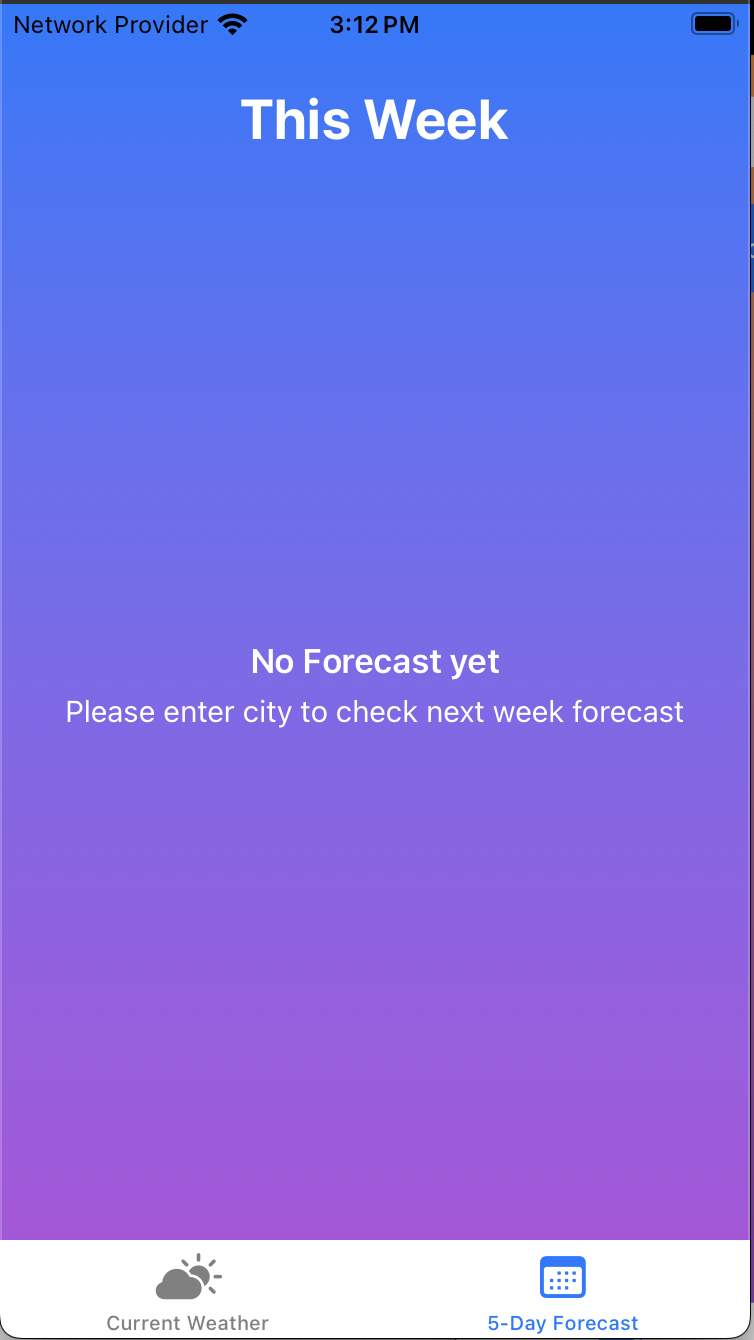
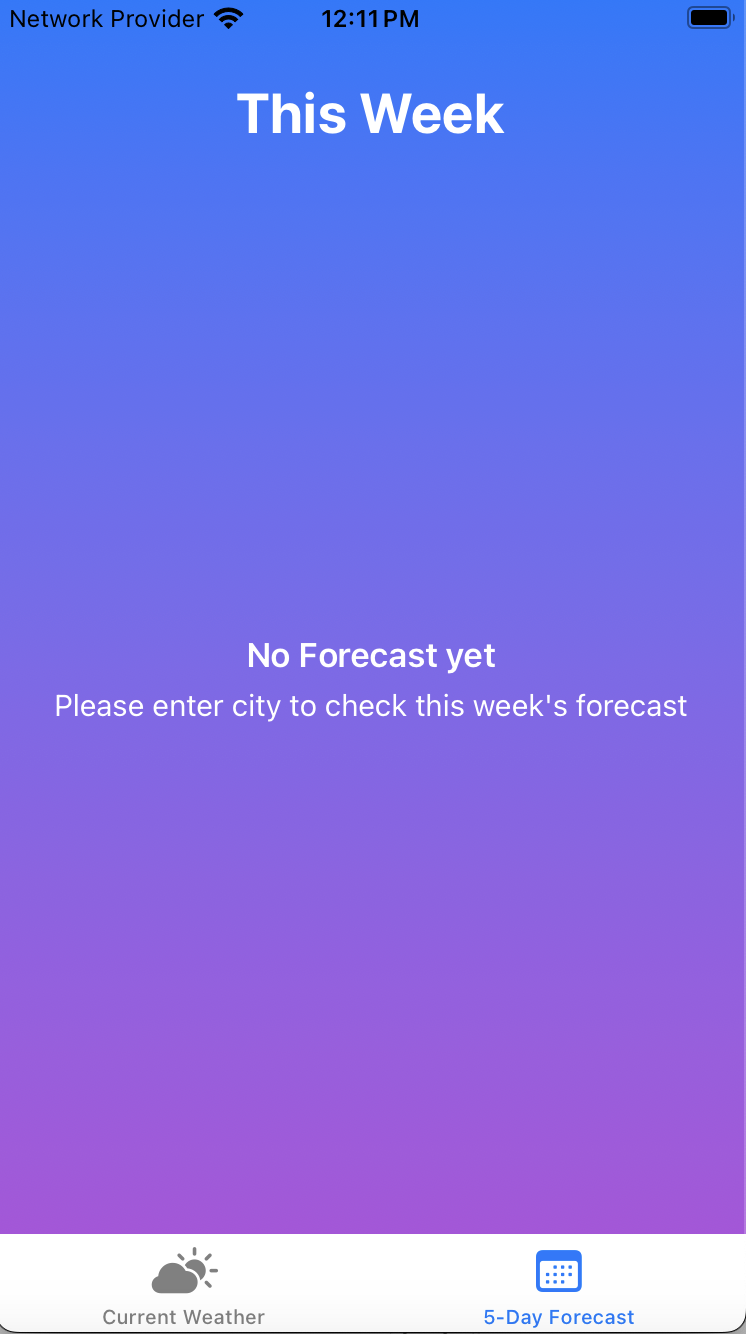
Updated Read me file and added constants file

diff --git a/WeatherForecastingApp/WeatherForecastingApp/Views/WeatherView.swift b/WeatherForecastingApp/WeatherForecastingApp/Views/WeatherView.swift
@@ -13,7 +13,7 @@ struct WeatherView: View {
             
             VStack(spacing: 20) {
                 VStack {
-                    TextField("Enter city name", text: $city)
+                    TextField(StringConstants.enterCityName, text: $city)
                         .padding(.all, 7) // Horizontal padding inside the TextField
                         .frame(height: 45) // Set the height of the TextField
                         .background(Color(.systemGray6)) // Background color
@@ -30,7 +30,7 @@ struct WeatherView: View {
                             weatherViewModel.fetchWeather(for: city)
                         }
                     }) {
-                        Text("Check Weather")
+                        Text(StringConstants.checkWeather)
                             .bold()
                             .frame(maxWidth: .infinity)
                             .padding()
@@ -47,7 +47,7 @@ struct WeatherView: View {
                     WeatherDisplay(weather: weather)
                 } else if weatherViewModel.errorMessage != nil{
                     // Clear previous weather data and show error
-                    Text("Something went wrong, Please try again")
+                    Text(AlertMessages.defaultAlert.description)
                         .foregroundColor(.red)
                         .padding()
                         .onAppear {
@@ -61,15 +61,15 @@ struct WeatherView: View {
             }.alert(isPresented: $showAlert) {
                 if let errorMessage = weatherViewModel.errorMessage {
                     return Alert(
-                        title: Text("Error"),
+                        title: Text(StringConstants.error),
                         message: Text(errorMessage),
-                        dismissButton: .default(Text("OK"))
+                        dismissButton: .default(Text(StringConstants.ok))
                     )
                 } else{
                     return Alert(
-                        title: Text("Error"),
-                        message: Text("Please enter a city to check the weather."),
-                        dismissButton: .default(Text("OK"))
+                        title: Text(StringConstants.error),
+                        message: Text(AlertMessages.enterCityToCheckWeather.description),
+                        dismissButton: .default(Text(StringConstants.ok))
                         
                     )
                 }
@@ -144,9 +144,9 @@ struct TemperatureView: View {
                 .bold()
                 .foregroundColor(.white)
             HStack {
-                InfoLabel(title: "Humidity", value: "\(humidity) %")
+                InfoLabel(title: StringConstants.humidity, value: "\(humidity) %")
                 Spacer()
-                InfoLabel(title: "Wind Speed(kph)", value: "\(windSpeed) kph")
+                InfoLabel(title: StringConstants.windSpeed, value: "\(windSpeed) kph")
             }
             .padding(.horizontal)
         }
@@ -159,9 +159,9 @@ struct SunInfoView: View {
 
     var body: some View {
         HStack {
-            InfoLabel(title: "Sunrise", value: astro?.sunrise ?? "")
+            InfoLabel(title: StringConstants.sunrise, value: astro?.sunrise ?? "")
             Spacer()
-            InfoLabel(title: "Sunset", value: astro?.sunset ?? "")
+            InfoLabel(title: StringConstants.sunset, value: astro?.sunset ?? "")
         }
         .padding(.horizontal)
     }

diff --git a/WeatherForecastingApp/WeatherForecastingApp/Constants/Constants.swift b/WeatherForecastingApp/WeatherForecastingApp/Constants/Constants.swift
@@ -1,0 +1,82 @@
+//
+//  Constants.swift
+//  WeatherForecastingApp
+//
+//  Created by Priya Mehndiratta on 03/10/24.
+//
+
+import UIKit
+
+// MARK: - Alert Messages
+
+/// Enum for handling alert messages throughout the app.
+enum AlertMessages: CustomStringConvertible {
+    case invalidWeatherResponse
+    case defaultAlert
+    case enterCityToCheckWeather
+    case errorSavingCoreData
+    case failedToFetchWeather
+    var description: String
+    {
+        switch self
+        {
+        case .invalidWeatherResponse:          
+            return "Invalid weather response: Failed to cache weather"
+        case .defaultAlert:                    
+            return "Something went wrong, Please try again later."
+        case .enterCityToCheckWeather:
+            return "Please enter a city to check the weather."
+        case .errorSavingCoreData:
+            return "Error in saving core data weather data"
+        case .failedToFetchWeather:
+            return "Failed to fetch weather:"
+        }
+    }
+}
+
+// MARK: - Text Messages
+
+/// Enum for handling specific text messages displayed in the app.
+enum TextMesages: CustomStringConvertible {
+    case thisWeek
+    case noForecastYet
+    case enterCityToCheckForecast
+    var description: String
+    {
+        switch self
+        {
+        case .thisWeek:
+            return "This Week"
+        case .noForecastYet:
+            return "No Forecast yet"
+        case .enterCityToCheckForecast:
+            return "Please enter city to check this week's forecast"
+        }
+    }
+}
+
+// MARK: - String Constants
+
+/// Struct containing static string constants used throughout the app.
+struct StringConstants {
+    static let sunrise = "Sunrise"
+    static let sunset = "Sunset"
+    static let humidity = "Humidity"
+    static let windSpeed = "Wind Speed(kph)"
+    static let error = "Error"
+    static let ok = "OK"
+    static let enterCityName = "Enter city name"
+    static let checkWeather = "Check Weather"
+    static let currentWeather = "Current Weather"
+    static let fiveDayForcast = "5-Day Forecast"
+}
+
+// MARK: - Service Constants
+
+/// Struct containing constant values related to the weather API service.
+/// Centralizes API endpoint information for easier management
+struct ServiceConstants {
+    static let WEATHER_API = "http://api.weatherapi.com/v1/forecast.json"
+    
+}
+

diff --git a/WeatherForecastingApp/WeatherForecastingApp/ViewModels/WeatherViewModel.swift b/WeatherForecastingApp/WeatherForecastingApp/ViewModels/WeatherViewModel.swift
@@ -67,7 +67,7 @@ class WeatherViewModel: ObservableObject {
                             self.coreDataService.saveWeather(weather, for: city)
                         } else {
                             self.weather = nil
-                            self.errorMessage = "Invalid weather response: Failed to cache weather"
+                            self.errorMessage = AlertMessages.invalidWeatherResponse.description
                         }
                     }
                 }
@@ -76,7 +76,7 @@ class WeatherViewModel: ObservableObject {
                 // Failed to fetch from API, set the error message with details
                 DispatchQueue.main.async {
                     self.weather = nil
-                    self.errorMessage = "Failed to fetch weather: \(error.localizedDescription)"
+                    self.errorMessage = "\(AlertMessages.failedToFetchWeather.description)  \(error.localizedDescription)"
                 }
             }
         }

diff --git a/WeatherForecastingApp/WeatherForecastingApp/Views/ForecastView.swift b/WeatherForecastingApp/WeatherForecastingApp/Views/ForecastView.swift
@@ -11,7 +11,7 @@ struct ForecastView: View {
             BackgroundGradient()
             
             VStack {
-                HeaderView(title: "This Week")
+                HeaderView(title: TextMesages.thisWeek.description)
                 
                 // Forecast list
                 if let forecast = weatherViewModel.weather?.forecast?.forecastday, !forecast.isEmpty {
@@ -104,11 +104,11 @@ struct ForecastRow: View {
 struct NoForecastView: View {
     var body: some View {
         Spacer()
-        Text("No Forecast yet")
+        Text(TextMesages.noForecastYet.description)
             .font(.headline)
             .foregroundColor(.white)
         
-        Text("Please enter city to check this week's forecast")
+        Text(TextMesages.enterCityToCheckForecast.description)
             .font(.subheadline)
             .foregroundColor(.white)
     }

diff --git a/WeatherForecastingApp/WeatherForecastingApp/Services/WeatherService.swift b/WeatherForecastingApp/WeatherForecastingApp/Services/WeatherService.swift
@@ -32,7 +32,7 @@ class WeatherService:WeatherServiceProtocol {
     ///   - completion: A closure that takes a `Result` with either a `WeatherResponse` or an `Error`.
     func fetchWeatherFromAPI(for city: String, completion: @escaping (Result<WeatherResponse, Error>) -> Void) {
         // Construct the API request URL with the city name and forecast days.
-        let urlString = "http://api.weatherapi.com/v1/forecast.json?key=\(apiKey)&q=\(city)&days=\(forecastDays)"
+        let urlString = "\(ServiceConstants.WEATHER_API)?key=\(apiKey)&q=\(city)&days=\(forecastDays)"
         
         guard let url = URL(string: urlString) else {
             completion(.failure(URLError(.badURL)))

diff --git a/WeatherForecastingApp/WeatherForecastingAppTests/ViewModels/WeatherViewModelTests.swift b/WeatherForecastingApp/WeatherForecastingAppTests/ViewModels/WeatherViewModelTests.swift
@@ -138,7 +138,7 @@ final class WeatherViewModelTests: XCTestCase {
         DispatchQueue.main.asyncAfter(deadline: .now() + 0.1) {
             // Ensure no weather data is set and the correct error message is generated
             XCTAssertNil(self.viewModel.weather)
-            XCTAssertEqual(self.viewModel.errorMessage, "Failed to fetch weather: The operation couldn’t be completed. ( error 500.)")
+            XCTAssertEqual(self.viewModel.errorMessage, "Failed to fetch weather:  The operation couldn’t be completed. ( error 500.)")
             
             // Fulfill the expectation
             expectation.fulfill()

diff --git a/WeatherForecastingApp/WeatherForecastingApp/Views/ContentView.swift b/WeatherForecastingApp/WeatherForecastingApp/Views/ContentView.swift
@@ -27,13 +27,13 @@ struct ContentView: View {
         TabView(selection: $selectedTab) {
             WeatherView()
                 .tabItem {
-                    Label("Current Weather", systemImage: "cloud.sun.fill")
+                    Label(StringConstants.currentWeather, systemImage: "cloud.sun.fill")
                 }
                 .tag(0)
             
             ForecastView()
                 .tabItem {
-                    Label("5-Day Forecast", systemImage: "calendar")
+                    Label(StringConstants.fiveDayForcast, systemImage: "calendar")
                 }
                 .tag(1)
         }

diff --git a/WeatherForecastingApp/WeatherForecastingApp/Services/CoreDataService.swift b/WeatherForecastingApp/WeatherForecastingApp/Services/CoreDataService.swift
@@ -175,7 +175,7 @@ class CoreDataService: CoreDataServiceProtocol {
         let forecastEntity = createForecastEntity(from: weatherResponse.forecast)
         
         guard let foreCastEntity = forecastEntity else{
-            print("Error in saving core data weather data")
+            print(AlertMessages.errorSavingCoreData.description)
             return
         }
         

diff --git a/README.md b/README.md
@@ -22,15 +22,17 @@ The app is built using SwiftUI and integrates with a weather API for fetching da
 - [Usage](#usage)
 - [Contributing](#contributing)
 - [Known Issues and Limitations](#known-issues-and-limitations)
+- [Executing Tests](#executing-tests)
+- [Viewing Coverage Reports](#viewing-coverage-reports)
 - [Screenshots](#screenshots)
 
 
 ## Features
 
-- **Current Weather**: Displays the current temperature, weather conditions, humidity, and wind speed.
+- **Current Weather**: Displays the current temperature, weather conditions, humidity, and wind speed, sunrise , sunset.
 - **5-Day Forecast**: Provides weather predictions for the next five days, including temperature highs, lows, and conditions.
-- **Location Search**: Users can search for weather data by entering city names or allowing location access.
-- **Error Alerts**: Alerts and appropriate messaging for failed requests, bad inputs, or denied permissions.
+- **Location Search**: Users can search for weather data by entering city name.
+- **Error Alerts**: Alerts and appropriate messaging for failed requests or bad inputs.
 
 
 ## Assumptions
@@ -39,7 +41,7 @@ The app is built using SwiftUI and integrates with a weather API for fetching da
 - The app assumes the entered city name  is accurate , otherwise API will fail and no data will be shown.
 - The weather API key is correctly configured in the app’s.
 - The user is using an iOS device with iOS 14.0+ installed, as the app is built with features and APIs available only in this version and later.
-- The weather API service is operational. If the API service is down or has rate limits, the app may show an error or use cached data (only if available)
+- The weather API service is operational in trial plan. If the API service is down or has rate limits, the app may show an error or use cached data (only if available)
 - The app assumes that the network will return valid responses from the weather API. If invalid responses are returned, the user will be informed via an error message.
 
 
@@ -49,18 +51,20 @@ The app uses the **MVVM (Model-View-ViewModel)** architecture to maintain separa
 
 - **Model**: Responsible for holding the weather data (e.g., temperature, humidity, forecast).
 - **ViewModel**: Handles the business logic of fetching and processing weather data from the API. The ViewModel interacts with Core Data to cache and retrieve data.
-- **View**: Composed of SwiftUI views like. It only observes changes in the ViewModel.
+- **View**: Composed of SwiftUI views. It only observes changes in the ViewModel.
 
 
 This ensures that:
 
 The ViewModel is not tightly coupled to the View.
-All the weather data formatting and logic remain outside of the View.
 
 ## Project Folder Structure
 
 ```
 ├── WeatherForecastingApp
+
+ ├── Constants
+    ├── Constants
 
   ├── ViewModels
     ├── WeatherViewModel
@@ -86,6 +90,7 @@ All the weather data formatting and logic remain outside of the View.
     
 ```
 - `WeatherForecastingApp.xcodeproj`: The Xcode project file.
+- `Constants/`: All types of app constants.
 - `ViewModels/`: Contains business logic and data-binding code (MVVM).
 - `Views/`: Contains UI components (built with SwiftUI or UIKit).
 - `Services/`: Holds network-related files, such as API requests.
@@ -111,11 +116,15 @@ let url = "http://api.weatherapi.com/v1/forecast.json?key=\(apiKey)&q=\(city)&da
 1. Clone the repository:
    ```bash
    git clone https://github.com/yourusername/weather-forecasting-app.git
+
+   cd your-app-name
+
+   Run from any simulator
    ```
    
 ## Core Data Caching
 
-The app uses Core Data to store and cache weather data locally. This helps improve performance and provides offline access to previously fetched weather data.
+The app uses Core Data to store and cache weather data locally. This helps improve performance and provides offline access to previously fetched weather data(if available)
 
 - **CoreDataManager.swift**: This class is responsible for saving, fetching, and deleting weather data from Core Data.
 
@@ -125,7 +134,6 @@ The app uses Core Data to store and cache weather data locally. This helps impro
 Error handling mechanisms are implemented to ensure a smooth user experience:
 
 - **API Errors**: Displays user-friendly messages in case of invalid API responses or rate limits.
-
 
 ## Requirements
 
@@ -158,7 +166,7 @@ To set up the project locally, follow these steps:
    
 
 ## Usage
-- **Launch the App**: On launch, the app will request location access to fetch the weather data for the user's current location.
+- **Launch the App**: On launch, tab view will be displayed with two tab views
 - **TabView**: TabBar is displayed at the botton with tabs - Current Weather, 5-Day-Forecast. By default, Current Weather tab is selected  
 - **View Weather**: Users can view current weather and conditions and the 5-day forecast after entering city.
 
@@ -187,6 +195,25 @@ Contributions are welcome! To contribute:
 - Currently, the **app doesn't support hourly weather forecasts**, and there might be delays in weather updates for regions with slower network speeds.
 - App **doesn't support current location** weather data. City is required to fetch data. 
 - The app **currently defaults to using Celsius** for temperature and kilometers per hour (kph) for wind speed. There is no option to switch to Fahrenheit.
+
+## Executing Tests
+
+- To run your tests, select **Product > Test** from the menu or use the shortcut Command + U.
+ - Alternatively, you can run specific tests by clicking the **diamond button** next to the test method name in the code editor.
+
+ ## Viewing Coverage Reports
+
+ Open the Coverage Report:
+
+- Go to the **Report Navigator** by clicking the triangle icon on the left sidebar or by selecting **View > Navigators > Show Report Navigator.**
+Select the most recent test run from the list.
+Inspect Coverage Data:
+
+- Click on the **"Coverage"** tab at the top of the Report Navigator to see detailed coverage information.
+ 
+You can view coverage for each file, including the percentage of lines covered by tests.
+Click on a specific file to see which lines of code were executed during the test runs (covered in green) and which were not (not covered in red).
+
 
 ## Screenshots
 
